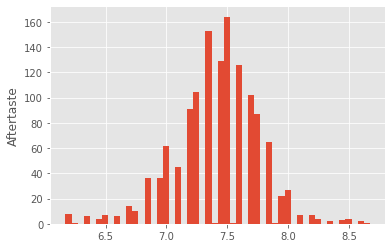
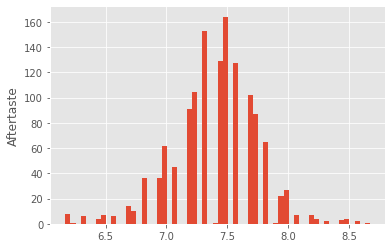
aftertaste module created, class finished

diff --git a/py/aftertaste/aftertaste.py b/py/aftertaste/aftertaste.py
@@ -1,0 +1,49 @@
+import numpy as np
+import matplotlib.pyplot as plt
+
+from fuzzylab import trimf
+from .membership import Membership
+
+class AfterTaste():
+    # def calc_meber
+    def __init__(self):
+        self.memberships = []
+    
+    # return array of memberships
+    def calc_memberships(self, x):
+        ret = []
+        for ms in self.memberships:
+            ret.append(ms.calc_membership(x))
+        return ret
+    
+    def build_memberships(self):
+        dusuk_ms = Membership("DUSUK", 0, 7.5)
+        orta_ms = Membership("ORTA", 7, 8)
+        yuksek_ms = Membership("YUKSEK", 7.5, 10)
+        #%% Dusuk
+        # parametrik yap
+        dusuk_ms.x = np.linspace(Membership.x_start, Membership.x_end, Membership.intv_size)
+        dusuk_ms.tri_list = [6.5, 7, 7.5]
+        dusuk_ms.y = trimf(dusuk_ms.x, dusuk_ms.tri_list)        
+        for i in range(700):
+            dusuk_ms.y[i] = 1
+        # add membership
+        self.memberships.append(dusuk_ms)
+        #%% Orta        
+        # parametrik yap
+        orta_ms.x = np.linspace(Membership.x_start, Membership.x_end, Membership.intv_size)
+        orta_ms.tri_list = [7, 7.5, 8]
+        orta_ms.y = trimf(orta_ms.x, orta_ms.tri_list)
+        self.memberships.append(orta_ms)        
+        #%% Yuksek
+        # parametrik yap
+        yuksek_ms.x = np.linspace(Membership.x_start, Membership.x_end, Membership.intv_size)
+        yuksek_ms.y = trimf(yuksek_ms.x, [7.5, 8, 10])
+        for i in range(800,1001):
+            yuksek_ms.y[i] = 1
+        self.memberships.append(yuksek_ms)
+    
+    def plot(self):
+        for i in range(len(self.memberships)):
+            plt.plot(self.memberships[i].x, self.memberships[i].y)
+        plt.show()

diff --git a/py/aftertaste/membership.py b/py/aftertaste/membership.py
@@ -1,0 +1,33 @@
+from math import ceil
+
+class Membership():
+    intv_size = 1001 # interval size for x axis
+    x_start = 0
+    x_end = 10
+    
+    def __init__(self, name, i_start, i_end):
+        self.name = name # DUSUK, ORTA, YUKSEK
+        self.i_start = i_start
+        self.i_end = i_end                
+        self.x = None
+        self.y = None
+        self.tri_list = None
+    
+    def set_arrays(self):
+        # x = np.linspace(6.5, 8.5, 101)
+        # y = trimf(x, [7, 7.5, 8])
+        pass
+    
+    def calc_membership(self, x):
+        # find indice of x and return y[ind]
+        # 0 ile 10 arasinda gelen
+        if x < 0 or x > 10:
+            raise KeyError('membership value must be in (0, 10) interval.') 
+       
+        t = Membership.intv_size // Membership.x_end
+        x_ind = ceil(t * x) # ceil number
+        # print(t, x_ind)
+        return self.y[x_ind]
+
+    def __repr__(self):
+        return repr(self.name + ', Start: ' + str(self.i_start) + ', End: ' + str(self.i_end))

diff --git a/py/plot_data.py b/py/plot_data.py
@@ -27,7 +27,7 @@ plt.plot(fl_vals)
 plt.ylabel("Flavor")
 plt.show()
 
-plt.hist(fl_vals, bins=34)
+plt.hist(fl_vals, bins=60)
 plt.ylabel("Flavor")
 plt.show()
 
@@ -44,7 +44,7 @@ plt.ylabel("Acidity")
 plt.plot(ac_vals)
 plt.show()
 
-plt.hist(ac_vals, bins=43)
+plt.hist(ac_vals, bins=60)
 plt.ylabel("Acidity")
 plt.show()
 
@@ -60,7 +60,7 @@ plt.ylabel("Aroma")
 plt.plot(ar_vals)
 plt.show()
 
-plt.hist(ar_vals, bins=45)
+plt.hist(ar_vals, bins=60)
 plt.ylabel("Aroma")
 plt.show()
 
@@ -76,7 +76,7 @@ plt.ylabel("Aftertaste")
 plt.plot(ar_vals)
 plt.show()
 
-plt.hist(ar_vals, bins=50)
+plt.hist(ar_vals, bins=60)
 plt.ylabel("Aftertaste")
 plt.show()
 

diff --git a/py/fuzzykafe.py b/py/fuzzykafe.py
@@ -1,0 +1,7 @@
+from aftertaste.aftertaste import AfterTaste
+
+at = AfterTaste()
+at.build_memberships()
+at.plot()
+ms_list = at.calc_memberships(7.25);
+print(ms_list)

diff --git a/py/aftertaste/__init__.py b/py/aftertaste/__init__.py
@@ -1,0 +1,8 @@
+#!/usr/bin/env python3
+# -*- coding: utf-8 -*-
+"""
+Created on Sun Dec  6 19:52:35 2020
+
+@author: mrk
+"""
+

diff --git a/notlar/kurallar.md b/notlar/kurallar.md
@@ -45,13 +45,3 @@ Dataset degerleri
 - Flavor (Lezzet)
 - Acidity (Asitlik)
 - Aftertaste (Ağızda kalan tat) 
-
-#### Aftertaste (Ağızda kalan tat) 
-- [6 - 7] Düşük 
-- [7 - 8] Orta
-- [8 - 9] Yüksek
-
-Bu 4 değişkeni kullanarak oluşturduğumuz kurallar.
-
-### Kural 1
-Kural 1: EGER []
